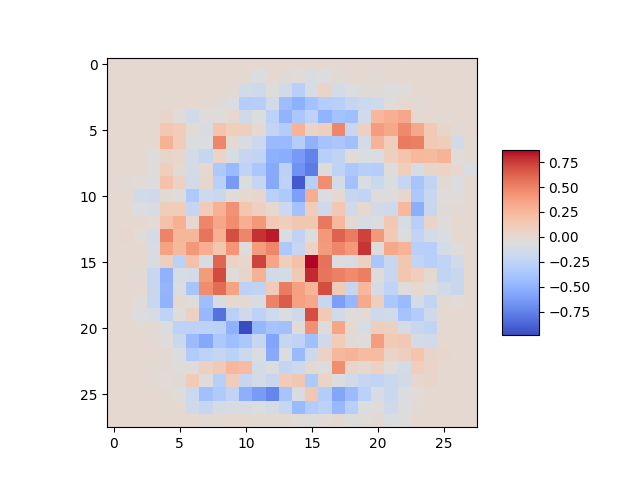
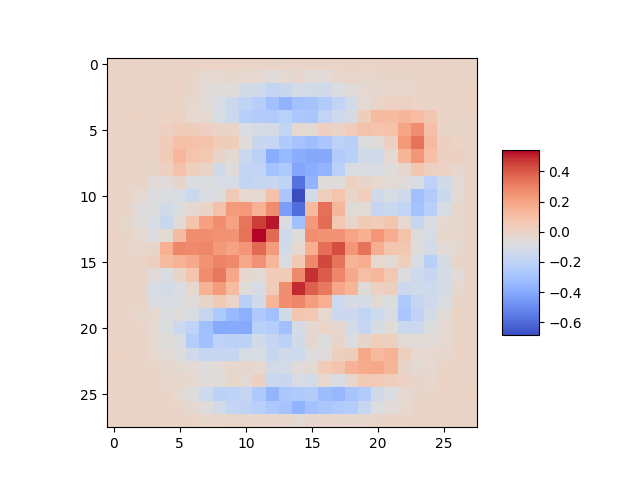
Change Part4: remove validation set

diff --git a/digits.py b/digits.py
@@ -84,42 +84,21 @@ def part3():
 #Load the MNIST digit data
 M = loadmat("mnist_all.mat")
 
-# Set sizes for training, validation and testing sets for each digit
-training_size = 400
-validation_size = 50
-test_size = 50
+# Split data into training and test set
+train_set, train_label = np.zeros((0, 28*28)), np.zeros((0, 10))
+test_set, test_label = np.zeros((0, 28*28)), np.zeros((0, 10))
 
-# Make the three sets
-train_label = np.zeros((10, training_size * 10))
-validation_label = np.zeros((10, validation_size * 10))
-test_label = np.zeros((10, test_size * 10))
+for i in range(10):
+    train_set = np.vstack((train_set, ((np.array(M["train"+str(i)])[:])/255.)))
+    test_set = np.vstack((test_set, ((np.array(M["test"+str(i)])[:])/255.)))
 
-# For digit '0'
-training_set = M["train0"][0:training_size]
-validation_set = M["train0"][training_size:training_size+validation_size]
-test_set = M["train0"][training_size+validation_size:training_size+validation_size+test_size]
+    one_hot = np.zeros(10)
+    one_hot[i] = 1
 
-train_label[0, 0:training_size] = 1
-validation_label[0, 0:validation_size] = 1
-test_label[0, 0:test_size] = 1
+    train_label = np.vstack((train_label, np.tile(one_hot, (len(M["train"+str(i)]), 1))))
+    test_label = np.vstack((test_label, np.tile(one_hot, (len(M["test"+str(i)]), 1))))
 
-# For the rest of the digits
-for i in range(1, 10):
-    training_set = vstack((training_set, M["train"+str(i)][0:training_size]))
-    validation_set = vstack((validation_set, M["train"+str(i)][training_size:training_size+validation_size]))
-    test_set = vstack((test_set, M["train"+str(i)][training_size+validation_size:training_size+validation_size+test_size]))
-
-    train_label[i, i*training_size:i*training_size+training_size] = 1
-    validation_label[i, i*validation_size:i*validation_size+validation_size] = 1
-    test_label[i, i*test_size:i*test_size+test_size] = 1
-
-training_set = training_set.T
-validation_set = validation_set.T
-test_set = test_set.T
-
-training_set = training_set/255.0
-validation_set = validation_set/255.0
-test_set = test_set/255.0
+train_set, train_label, test_set, test_label = train_set.T, train_label.T, test_set.T, test_label.T
 
 # Load weights and biases
 snapshot = cPickle.load(open("snapshot50.pkl"))
@@ -131,11 +110,11 @@ b1 = snapshot["b1"].reshape((10,1))
 init_W = np.dot(W0, W1)
 init_b = b1
 
-alpha = 0.0001
+alpha = 0.00001
 
-W, b, epoch, train_perf, validation_perf, test_perf = train_nn(compute_simple_network, gradient_simple_network_w, gradient_simple_network_b, training_set, train_label, validation_set, validation_label, test_set, test_label, init_W, init_b, alpha)
+W, b, epoch, train_perf, test_perf = train_nn(compute_simple_network, gradient_simple_network_w, gradient_simple_network_b, train_set, train_label, test_set, test_label, init_W, init_b, alpha)
 
-plot_learning_curves(epoch, train_perf, validation_perf, test_perf)
+plot_learning_curves(epoch, train_perf, test_perf)
 plot_digit_weights(W)
 
 ################################################################################

diff --git a/mnist_handout.py b/mnist_handout.py
@@ -119,11 +119,11 @@ def performance(x, W, b, y):
 
     return 100 * correct/float(total)
 
-def train_nn(f, df_W, df_b, x_train, y_train, x_validation, y_validation, x_test, y_test, init_W, init_b, alpha, max_iter = 5000):
+def train_nn(f, df_W, df_b, x_train, y_train, x_test, y_test, init_W, init_b, alpha, max_iter = 2000):
     x = x_train
     y = y_train
 
-    epoch, train_perf, validation_perf, test_perf = [], [], [], []
+    epoch, train_perf, test_perf = [], [], []
 
     EPS = 1e-10
     prev_W = init_W - 10 * EPS
@@ -139,25 +139,22 @@ def train_nn(f, df_W, df_b, x_train, y_train, x_validation, y_validation, x_test
         W -= alpha * df_W(x, W, b, y)
         b -= alpha * df_b(x, W, b, y)
 
-        if itr % 500 == 0 or itr == max_iter - 1:
+        if itr % 200 == 0 or itr == max_iter - 1:
             epoch_i = itr
             train_perf_i = performance(x_train, W, b, y_train)
-            validation_perf_i = performance(x_validation, W, b, y_validation)
             test_perf_i = performance(x_test, W, b, y_test)
 
             epoch.append(epoch_i)
             train_perf.append(train_perf_i)
-            validation_perf.append(validation_perf_i)
             test_perf.append(test_perf_i)
 
             print("Epoch: " + str(epoch_i))
             print("Training Performance:   " + str(train_perf_i) + "%")
-            print("Validation Performance: " + str(validation_perf_i) + "%")
             print("Testing Performance:    " + str(test_perf_i) + "%\n")
 
         itr += 1
 
-    return W, b, epoch, train_perf, validation_perf, test_perf
+    return W, b, epoch, train_perf, test_perf
 
 ################################################################################
 # #Load sample weights for the multilayer neural network

diff --git a/plot.py b/plot.py
@@ -41,9 +41,8 @@ def plot_digit_weights(W):
         fig.colorbar(heatmap, shrink = 0.5, aspect=5)
         savefig("figures/part4_"+str(i)+".png")
 
-def plot_learning_curves(epoch, train_perf, validation_perf, test_perf):
+def plot_learning_curves(epoch, train_perf, test_perf):
     plt.plot(epoch, train_perf, color='k', linewidth=2, marker="o", label="Training Set")
-    plt.plot(epoch, validation_perf, color='b', linewidth=2, marker="o", label="Validation Set")
     plt.plot(epoch, test_perf, color='r', linewidth=2, marker="o", label="Testing Set")
 
     plt.title("Learning curve")
